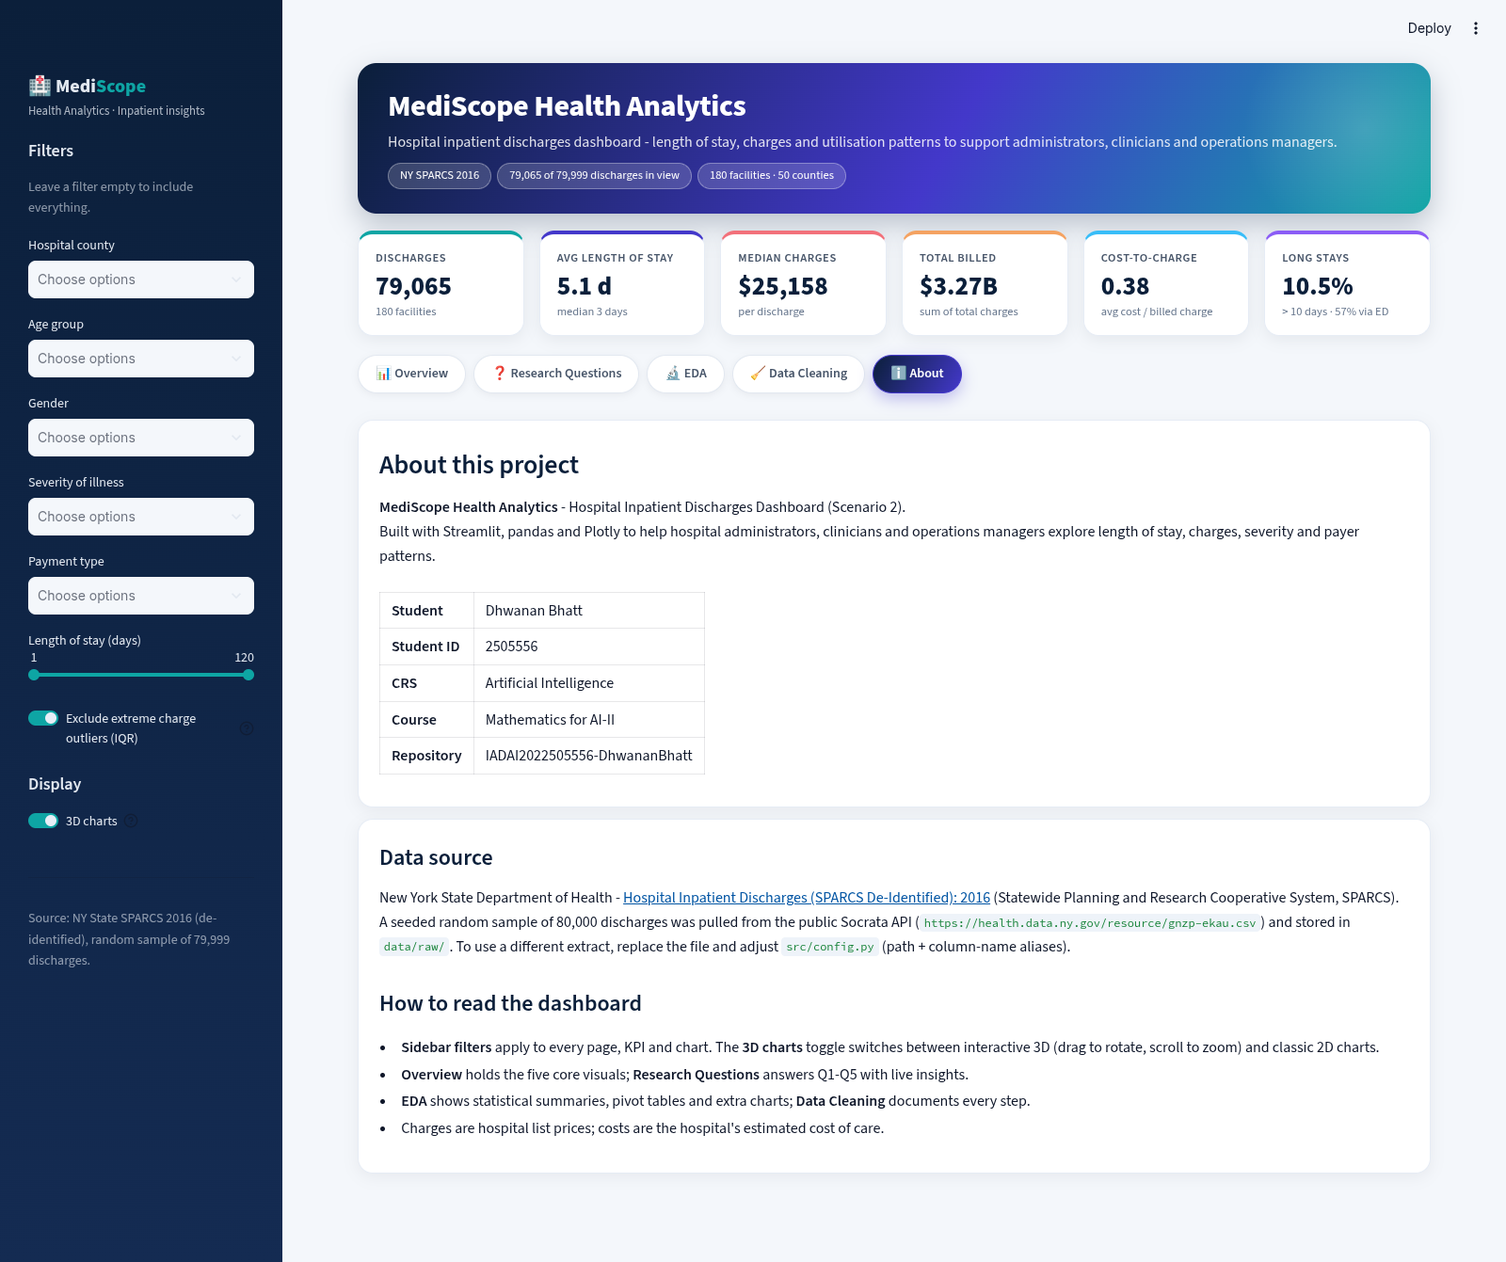
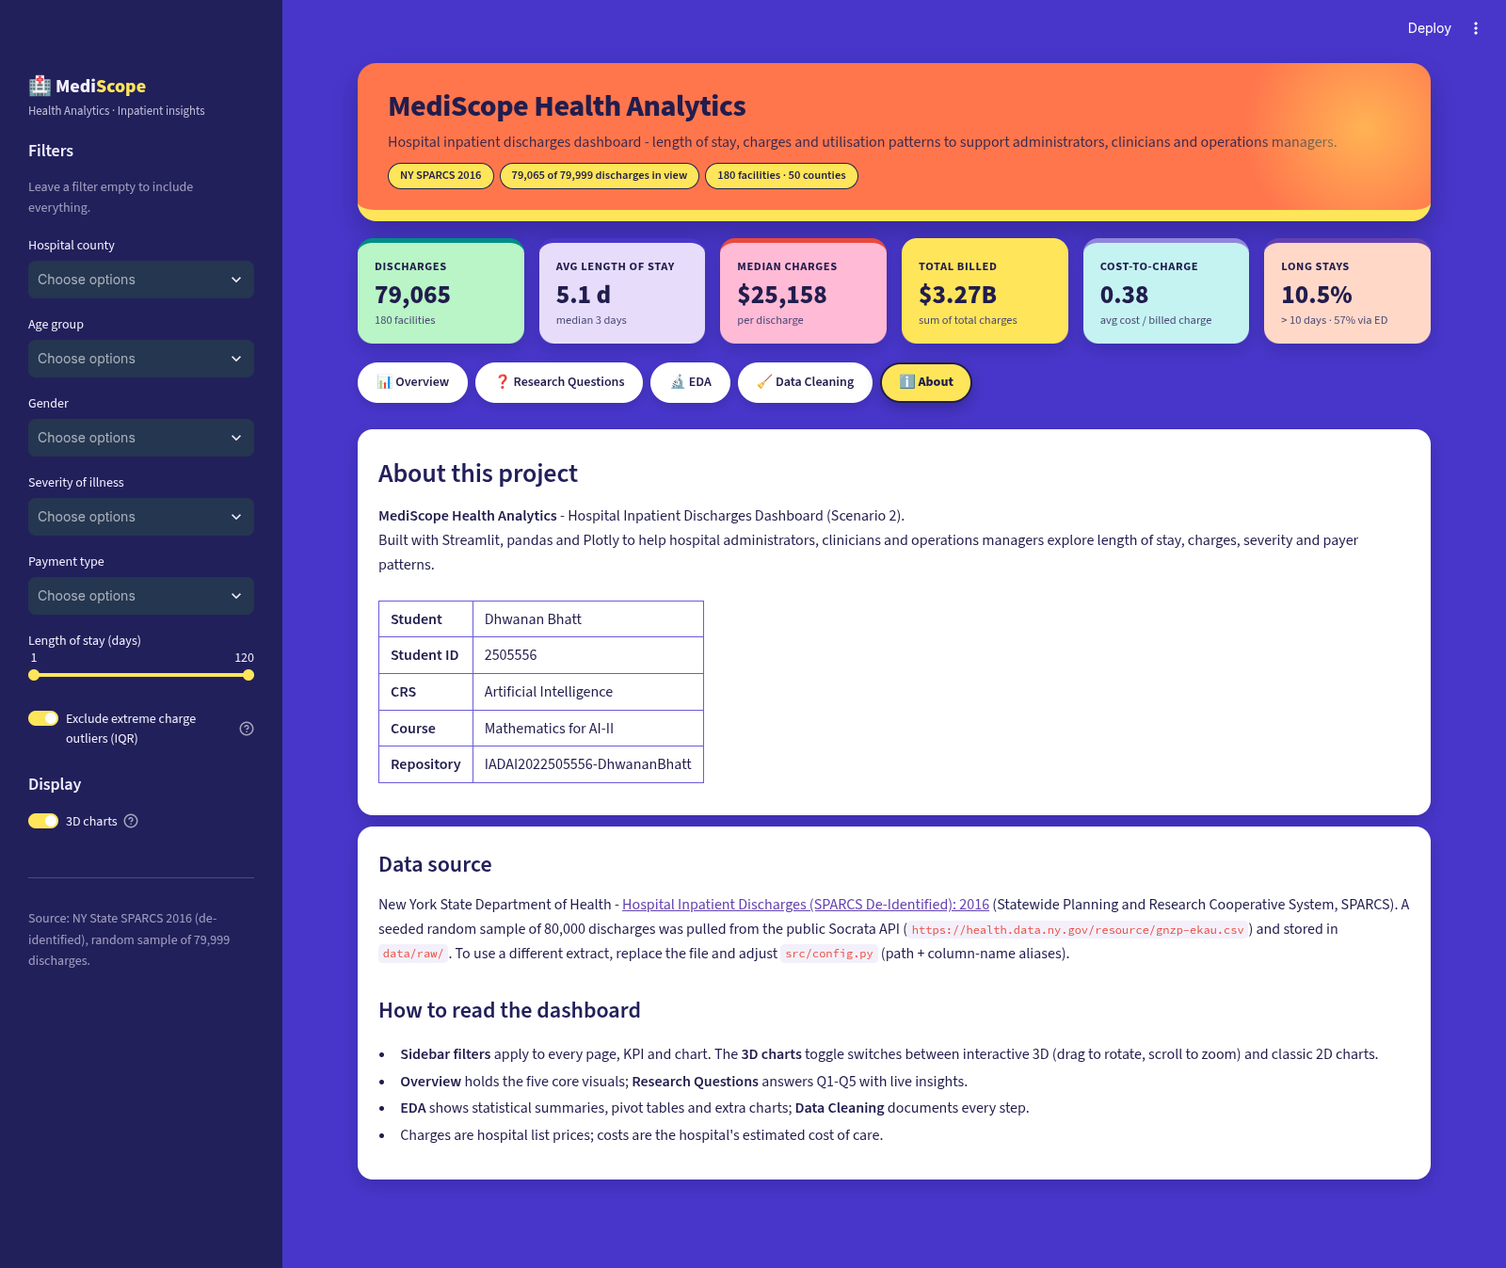
Restyle colour scheme (infographic palette)

diff --git a/src/styles.py b/src/styles.py
@@ -7,113 +7,131 @@ from . import config as cfg
 P = cfg.PALETTE
 
 # Light colormap for pandas Styler gradients (keeps dark table text readable)
-SOFT_CMAP = LinearSegmentedColormap.from_list("mediscope_soft", ["#F0FDFA", "#99F6E4", "#A5B4FC"])
+SOFT_CMAP = LinearSegmentedColormap.from_list("mediscope_soft", ["#FFF6D6", "#B9F5C6", "#D8C5F8"])
+PS = cfg.PASTELS
+# KPI accent colour -> pastel card fill (as in the reference infographic's cards)
+CARD_FILL = {P["teal"]: PS["mint"], P["indigo"]: PS["lavender"], P["coral"]: PS["pink"],
+             P["amber"]: PS["yellow"], P["sky"]: PS["cyan"], P["violet"]: PS["peach"]}
 
 CSS = f"""
 <style>
 @import url('https://fonts.googleapis.com/css2?family=Inter:wght@400;500;600;700;800&display=swap');
 html, body, [class*="css"], .stMarkdown, .stText {{ font-family: 'Inter', 'Segoe UI', sans-serif; }}
 .block-container {{ padding-top: 3.2rem; padding-bottom: 3rem; max-width: 1380px; }}
+.stApp {{ background: {P['bg']}; }}
+[data-testid="stCaptionContainer"], .stCaption {{ color: #E7DDFB !important; }}
+.block-container h1, .block-container h2, .block-container h3, .block-container h4 {{ color: #FFFFFF; }}
 
-/* ---------- header banner ---------- */
+/* ---------- header banner (orange poster header + yellow band) ---------- */
 .ms-hero {{
-  background: linear-gradient(120deg, {P['navy']} 0%, {P['indigo']} 55%, {P['teal']} 100%);
-  border-radius: 20px; padding: 26px 32px; color: #fff; margin-bottom: 18px;
-  box-shadow: 0 12px 30px rgba(11,31,58,.25); position: relative; overflow: hidden;
+  background: {P['orange']};
+  border-radius: 20px; padding: 26px 32px 22px 32px; color: {P['ink']}; margin-bottom: 18px;
+  border-bottom: 12px solid {P['amber']};
+  box-shadow: 0 12px 30px rgba(20,16,70,.35); position: relative; overflow: hidden;
 }}
 .ms-hero:after {{
   content: ""; position: absolute; right: -60px; top: -60px; width: 260px; height: 260px;
-  border-radius: 50%; background: radial-gradient(circle, rgba(255,255,255,.18), rgba(255,255,255,0) 70%);
+  border-radius: 50%; background: radial-gradient(circle, rgba(255,229,90,.55), rgba(255,229,90,0) 70%);
 }}
-.ms-hero h1 {{ color: #fff; font-size: 2.0rem; font-weight: 800; margin: 0; letter-spacing: -.5px; padding: 0; }}
-.ms-hero p {{ color: rgba(255,255,255,.85); margin: 6px 0 0 0; font-size: 1.0rem; }}
+.ms-hero h1 {{ color: {P['ink']}; font-size: 2.0rem; font-weight: 800; margin: 0; letter-spacing: -.5px; padding: 0; }}
+.ms-hero p {{ color: {P['ink']}; opacity: .88; margin: 6px 0 0 0; font-size: 1.0rem; }}
 .ms-badge {{
-  display: inline-block; background: rgba(255,255,255,.16); border: 1px solid rgba(255,255,255,.3);
-  color: #fff; border-radius: 999px; padding: 3px 12px; font-size: .78rem; margin: 10px 6px 0 0;
+  display: inline-block; background: {P['amber']}; border: 1px solid {P['ink']};
+  color: {P['ink']}; font-weight: 600; border-radius: 999px; padding: 3px 12px; font-size: .78rem; margin: 10px 6px 0 0;
 }}
 
-/* ---------- KPI cards ---------- */
+/* ---------- KPI cards (pastel fills) ---------- */
 .ms-kpi {{
-  background: {P['card']}; border-radius: 16px; padding: 16px 18px 14px 18px; height: 100%;
-  box-shadow: 0 4px 16px rgba(15,23,42,.07); border: 1px solid #E6ECF5;
-  border-top: 4px solid var(--accent); transition: transform .15s ease, box-shadow .15s ease;
+  background: var(--fill, {P['card']}); border-radius: 16px; padding: 16px 18px 14px 18px; height: 100%;
+  box-shadow: 0 6px 18px rgba(20,16,70,.25); border: none;
+  border-top: 5px solid var(--accent); transition: transform .15s ease, box-shadow .15s ease;
 }}
-.ms-kpi:hover {{ transform: translateY(-2px); box-shadow: 0 10px 24px rgba(15,23,42,.12); }}
-.ms-kpi .lbl {{ color: {P['slate']}; font-size: .78rem; font-weight: 600; text-transform: uppercase; letter-spacing: .6px; }}
-.ms-kpi .val {{ color: {P['navy']}; font-size: 1.7rem; font-weight: 800; margin-top: 4px; line-height: 1.15; }}
-.ms-kpi .sub {{ color: #64748B; font-size: .78rem; margin-top: 2px; }}
+.ms-kpi:hover {{ transform: translateY(-2px); box-shadow: 0 12px 26px rgba(20,16,70,.35); }}
+.ms-kpi .lbl {{ color: {P['ink']}; font-size: .78rem; font-weight: 700; text-transform: uppercase; letter-spacing: .6px; }}
+.ms-kpi .val {{ color: {P['ink']}; font-size: 1.7rem; font-weight: 800; margin-top: 4px; line-height: 1.15; }}
+.ms-kpi .sub {{ color: {P['slate']}; font-size: .78rem; margin-top: 2px; }}
 
 /* ---------- insight & section boxes ---------- */
 .ms-insight {{
-  background: linear-gradient(90deg, rgba(14,165,164,.10), rgba(67,56,202,.06));
-  border-left: 5px solid {P['teal']}; border-radius: 12px; padding: 14px 18px; margin: 6px 0 14px 0;
-  color: #0F172A; font-size: .97rem;
+  background: {cfg.PASTELS['cream']};
+  border-left: 6px solid {P['orange']}; border-radius: 12px; padding: 14px 18px; margin: 6px 0 14px 0;
+  color: {P['ink']}; font-size: .97rem;
 }}
-.ms-insight b, .ms-insight strong {{ color: {P['indigo']}; }}
-.ms-q {{ color: {P['navy']}; font-weight: 800; font-size: 1.25rem; margin: 6px 0 2px 0; }}
+.ms-insight b, .ms-insight strong {{ color: {P['violet']}; }}
+.ms-q {{ color: #FFFFFF; font-weight: 800; font-size: 1.25rem; margin: 6px 0 2px 0; }}
 .ms-qnum {{
-  display: inline-block; background: {P['coral']}; color: #fff; border-radius: 8px;
+  display: inline-block; background: {P['amber']}; color: {P['ink']}; border-radius: 8px;
   padding: 1px 9px; margin-right: 8px; font-size: .95rem;
 }}
 .ms-card {{
-  background: #fff; border-radius: 16px; padding: 18px 22px; border: 1px solid #E6ECF5;
-  box-shadow: 0 4px 16px rgba(15,23,42,.06); margin-bottom: 12px;
+  background: #fff; color: {P['ink']}; border-radius: 16px; padding: 18px 22px; border: none;
+  box-shadow: 0 6px 18px rgba(20,16,70,.25); margin-bottom: 12px;
 }}
+.ms-card td, .ms-card li, .ms-card b {{ color: {P['ink']}; }}
+.ms-card a {{ color: {P['violet']}; }}
+.ms-card code {{ color: {P['coral']}; background: #F3F0FB; }}
 
 /* ---------- containers around charts ---------- */
 div[data-testid="stPlotlyChart"] {{
-  background: #fff; border-radius: 16px; padding: 8px 10px; border: 1px solid #E6ECF5;
-  box-shadow: 0 4px 16px rgba(15,23,42,.05);
+  background: #fff; border-radius: 16px; padding: 8px 10px; border: none;
+  box-shadow: 0 6px 18px rgba(20,16,70,.22);
 }}
 
 /* ---------- tabs ---------- */
 .stTabs [data-baseweb="tab-list"] {{ gap: 6px; border-bottom: none; }}
 .stTabs [data-baseweb="tab"] {{
   background: #fff; border-radius: 12px 12px 0 0; padding: 10px 18px; font-weight: 600;
-  border: 1px solid #E6ECF5; border-bottom: none; color: {P['slate']};
+  border: none; color: {P['ink']};
 }}
-.stTabs [aria-selected="true"] {{ background: {P['navy']} !important; color: #fff !important; }}
-.stTabs [data-baseweb="tab-highlight"] {{ background: {P['coral']}; }}
+.stTabs [aria-selected="true"] {{ background: {P['amber']} !important; color: {P['ink']} !important; }}
+.stTabs [data-baseweb="tab-highlight"] {{ background: {P['orange']}; }}
 
 /* ---------- page navigation (radio styled as pills) ---------- */
 .block-container [data-testid="stRadioGroup"] {{ gap: 8px; flex-wrap: wrap; margin: 4px 0 12px 0; }}
 .block-container label[data-testid="stRadioOption"] {{
-  background: #fff; border: 1px solid #E2E8F0; border-radius: 999px; padding: 8px 18px;
-  box-shadow: 0 2px 8px rgba(15,23,42,.06); margin: 0 !important; cursor: pointer;
+  background: #fff; border: 2px solid transparent; border-radius: 999px; padding: 8px 18px;
+  box-shadow: 0 4px 12px rgba(20,16,70,.22); margin: 0 !important; cursor: pointer;
   transition: all .15s ease;
 }}
-.block-container label[data-testid="stRadioOption"]:hover {{ border-color: {P['teal']}; }}
+.block-container label[data-testid="stRadioOption"]:hover {{ border-color: {P['amber']}; }}
 .block-container label[data-testid="stRadioOption"][data-selected="true"] {{
-  background: linear-gradient(120deg, {P['navy']}, {P['indigo']}); border-color: {P['indigo']};
-  box-shadow: 0 6px 16px rgba(67,56,202,.30);
+  background: {P['amber']}; border-color: {P['ink']};
+  box-shadow: 0 6px 16px rgba(20,16,70,.35);
 }}
 .block-container label[data-testid="stRadioOption"] > div > div:not([data-testid="stMarkdownContainer"]) {{ display: none; }}
-.block-container label[data-testid="stRadioOption"] p {{ font-weight: 600; color: {P['slate']}; margin: 0; }}
-.block-container label[data-testid="stRadioOption"][data-selected="true"] p {{ color: #fff !important; }}
+.block-container label[data-testid="stRadioOption"] p {{ font-weight: 600; color: {P['ink']}; margin: 0; }}
+.block-container label[data-testid="stRadioOption"][data-selected="true"] p {{ color: {P['ink']} !important; font-weight: 800; }}
 
 /* ---------- click-filter chips ---------- */
-.st-key-xf_chips {{ background: #fff; border: 1px solid #E6ECF5; border-radius: 14px; padding: 8px 12px;
-  box-shadow: 0 4px 14px rgba(15,23,42,.06); margin-bottom: 10px; }}
-.st-key-xf_chips button[kind="secondary"] {{ border-radius: 999px; background: rgba(14,165,164,.10);
-  border: 1px solid {P['teal']}; color: {P['navy']}; font-weight: 600; }}
-.st-key-xf_chips button[kind="primary"] {{ border-radius: 999px; background: {P['coral']}; border-color: {P['coral']}; }}
-.ms-chip-label {{ font-weight: 700; color: {P['navy']}; padding-top: 8px; }}
-div[data-testid="stPopover"] button {{ border-radius: 999px; font-size: .85rem; }}
+.st-key-xf_chips {{ background: {cfg.PASTELS['lightgreen']}; border: none; border-radius: 14px; padding: 8px 12px;
+  box-shadow: 0 4px 14px rgba(20,16,70,.22); margin-bottom: 10px; }}
+.st-key-xf_chips button[kind="secondary"] {{ border-radius: 999px; background: {cfg.PASTELS['mint']};
+  border: 1px solid {P['teal']}; color: {P['ink']}; font-weight: 600; }}
+.st-key-xf_chips button[kind="secondary"] p {{ color: {P['ink']}; }}
+.st-key-xf_chips button[kind="primary"] {{ border-radius: 999px; background: {P['orange']}; border-color: {P['orange']}; }}
+.st-key-xf_chips button[kind="primary"] p {{ color: {P['ink']}; font-weight: 700; }}
+.ms-chip-label {{ font-weight: 700; color: {P['ink']}; padding-top: 8px; }}
+div[data-testid="stPopover"] button {{ border-radius: 999px; font-size: .85rem; background: {P['amber']};
+  color: {P['ink']}; border: none; font-weight: 600; }}
+div[data-testid="stPopover"] button p, div[data-testid="stPopover"] button svg {{ color: {P['ink']}; fill: {P['ink']}; }}
+
+/* ---------- buttons on the indigo canvas ---------- */
+.block-container [data-testid="stDownloadButton"] button {{ background: {P['amber']}; color: {P['ink']}; border: none; font-weight: 700; }}
+.block-container [data-testid="stDownloadButton"] button p {{ color: {P['ink']}; }}
+.block-container [data-testid="stExpander"] details {{ border-color: rgba(255,255,255,.35); }}
 
 /* ---------- sidebar ---------- */
-section[data-testid="stSidebar"] {{
-  background: linear-gradient(180deg, {P['navy']} 0%, #142B52 100%);
-}}
-section[data-testid="stSidebar"] * {{ color: #E2E8F0; }}
+section[data-testid="stSidebar"] {{ background: {P['navy']}; }}
+section[data-testid="stSidebar"] * {{ color: #F1EEFF; }}
 section[data-testid="stSidebar"] h1, section[data-testid="stSidebar"] h2,
-section[data-testid="stSidebar"] h3 {{ color: #fff; }}
+section[data-testid="stSidebar"] h3 {{ color: {P['amber']}; }}
 section[data-testid="stSidebar"] [data-baseweb="select"] > div,
-section[data-testid="stSidebar"] [data-baseweb="input"] > div {{ background: rgba(255,255,255,.08); border-color: rgba(255,255,255,.18); }}
-section[data-testid="stSidebar"] [data-baseweb="tag"] {{ background: {P['teal']} !important; }}
-section[data-testid="stSidebar"] [data-baseweb="tag"] * {{ color: #fff !important; }}
-section[data-testid="stSidebar"] [data-baseweb="popover"] * {{ color: #0F172A; }}
+section[data-testid="stSidebar"] [data-baseweb="input"] > div {{ background: #253650; border-color: rgba(255,255,255,.18); }}
+section[data-testid="stSidebar"] [data-baseweb="tag"] {{ background: {P['amber']} !important; }}
+section[data-testid="stSidebar"] [data-baseweb="tag"] * {{ color: {P['ink']} !important; }}
+section[data-testid="stSidebar"] [data-baseweb="popover"] * {{ color: {P['ink']}; }}
 .ms-side-brand {{ font-size: 1.25rem; font-weight: 800; color: #fff; }}
-.ms-side-brand span {{ color: {P['teal']}; }}
+.ms-side-brand span {{ color: {P['amber']}; }}
 
 /* dataframes */
 div[data-testid="stDataFrame"] {{ border-radius: 12px; overflow: hidden; }}
@@ -134,7 +152,8 @@ def hero(title: str, subtitle: str, badges: list[str]) -> None:
 
 
 def kpi_card(label: str, value: str, sub: str = "", accent: str = P["teal"]) -> str:
-    return (f'<div class="ms-kpi" style="--accent:{accent}"><div class="lbl">{label}</div>'
+    fill = CARD_FILL.get(accent, PS["lightgreen"])
+    return (f'<div class="ms-kpi" style="--accent:{accent};--fill:{fill}"><div class="lbl">{label}</div>'
             f'<div class="val">{value}</div><div class="sub">{sub}</div></div>')
 
 

diff --git a/src/config.py b/src/config.py
@@ -90,25 +90,38 @@ LOS_BUCKET_LABELS = ["1-2 days", "3-5 days", "6-10 days", "11-30 days", "31+ day
 # --------------------------------------------------------------------------- #
 # Visual identity
 # --------------------------------------------------------------------------- #
+# Palette sampled from the "flat poster" reference infographic: orange header,
+# yellow band, vivid indigo canvas, deep navy sidebar, pastel cards, teal marks.
 PALETTE = {
-    "navy": "#0B1F3A",
-    "indigo": "#4338CA",
-    "teal": "#0EA5A4",
-    "coral": "#F2707A",
-    "amber": "#F4A261",
-    "sky": "#38BDF8",
-    "violet": "#8B5CF6",
-    "slate": "#475569",
-    "bg": "#F4F7FB",
+    "navy": "#22205A",     # deep navy-indigo (sidebar, dark text)
+    "ink": "#211D4D",      # headline text on light / orange surfaces
+    "indigo": "#4836CB",   # vivid indigo canvas
+    "teal": "#008C87",
+    "coral": "#EA493C",    # red-orange bars
+    "orange": "#FF764D",   # header orange
+    "salmon": "#F39374",
+    "amber": "#FFE55A",    # bright yellow band / buttons
+    "sky": "#9185DA",      # soft purple
+    "violet": "#6441B0",
+    "pink": "#F14379",
+    "green": "#6CB760",
+    "slate": "#4A4775",    # muted label text
+    "bg": "#4836CB",
     "card": "#FFFFFF",
+    "footer": "#FFC9E0",
+}
+# Pastel card fills (KPI cards), from the infographic's cards
+PASTELS = {
+    "yellow": "#FFE55A", "mint": "#B9F5C6", "pink": "#FFBAD5", "lightgreen": "#E3F8CF",
+    "cream": "#FFE8A5", "lavender": "#E7DDFB", "peach": "#FFD8C8", "cyan": "#C5F3F2",
 }
 # Ordered discrete colour sequence for charts
-COLORWAY = ["#0EA5A4", "#4338CA", "#F2707A", "#F4A261", "#38BDF8",
-            "#8B5CF6", "#0B1F3A", "#22C55E", "#EC4899", "#94A3B8"]
-SEVERITY_COLORS = {"Minor": "#0EA5A4", "Moderate": "#38BDF8",
-                   "Major": "#F4A261", "Extreme": "#F2707A"}
-# Sequential scale for heatmaps: soft mint -> teal -> indigo -> navy
-SEQ_SCALE = ["#ECFDF5", "#99F6E4", "#2DD4BF", "#0EA5A4", "#4338CA", "#0B1F3A"]
+COLORWAY = ["#008C87", "#4836CB", "#EA493C", "#FF764D", "#9185DA",
+            "#F14379", "#22205A", "#6CB760", "#F39374", "#145633"]
+SEVERITY_COLORS = {"Minor": "#6CB760", "Moderate": "#008C87",
+                   "Major": "#FF764D", "Extreme": "#C13F2E"}
+# Sequential scale for heatmaps: the infographic's pale-lime -> forest-green ramp
+SEQ_SCALE = ["#E3F8CF", "#D2E9AD", "#A8D27D", "#6CB760", "#328347", "#145633"]
 
 STUDENT = {
     "name": "Dhwanan Bhatt",
@@ -133,7 +146,7 @@ HEAT_METRICS = {"length_of_stay": "Average stay (days)", "total_charges": "Avera
                 "charge_per_day": "Average charges per day ($)"}
 AGE_METRICS = {"avg_charges": "Average charges ($)", "median_charges": "Median charges ($)",
                "avg_costs": "Average cost ($)", "avg_los": "Average stay (days)"}
-GENDER_COLORS = {"Female": "#F2707A", "Male": "#4338CA", "Unknown": "#94A3B8"}
+GENDER_COLORS = {"Female": "#F14379", "Male": "#4836CB", "Unknown": "#9185DA"}
 
 
 def is_money(metric: str) -> bool:

diff --git a/src/charts.py b/src/charts.py
@@ -19,14 +19,14 @@ from .analysis import group_summary, ranked, top_facilities
 FONT = "Inter, 'Segoe UI', Roboto, Helvetica, Arial, sans-serif"
 pio.templates["mediscope"] = go.layout.Template(
     layout=go.Layout(
-        font=dict(family=FONT, size=13, color="#1E293B"),
+        font=dict(family=FONT, size=13, color="#211D4D"),
         title=dict(font=dict(size=17, color=cfg.PALETTE["navy"]), x=0.0, xanchor="left"),
         colorway=cfg.COLORWAY,
         paper_bgcolor="rgba(0,0,0,0)",
         plot_bgcolor="rgba(0,0,0,0)",
-        xaxis=dict(gridcolor="#E2E8F0", zerolinecolor="#CBD5E1", linecolor="#CBD5E1"),
-        yaxis=dict(gridcolor="#E2E8F0", zerolinecolor="#CBD5E1", linecolor="#CBD5E1"),
-        hoverlabel=dict(bgcolor="white", font=dict(family=FONT, color="#0F172A"),
+        xaxis=dict(gridcolor="#ECE6FB", zerolinecolor="#C9C1EA", linecolor="#C9C1EA"),
+        yaxis=dict(gridcolor="#ECE6FB", zerolinecolor="#C9C1EA", linecolor="#C9C1EA"),
+        hoverlabel=dict(bgcolor="white", font=dict(family=FONT, color="#211D4D"),
                         bordercolor=cfg.PALETTE["teal"]),
         legend=dict(bgcolor="rgba(0,0,0,0)", title=dict(font=dict(size=12))),
         margin=dict(l=10, r=10, t=56, b=10),
@@ -37,7 +37,7 @@ pio.templates.default = "plotly_white+mediscope"
 
 def _empty(msg="No data for the current filters") -> go.Figure:
     fig = go.Figure()
-    fig.add_annotation(text=msg, showarrow=False, font=dict(size=15, color="#64748B"))
+    fig.add_annotation(text=msg, showarrow=False, font=dict(size=15, color="#4A4775"))
     fig.update_layout(xaxis_visible=False, yaxis_visible=False, height=320)
     return fig
 
@@ -392,7 +392,7 @@ def animated_age_charges(df, metric: str = "avg_charges") -> go.Figure:
     fig.update_layout(height=480, legend=dict(orientation="h", y=1.02, x=1, xanchor="right", title=None))
     # theme the play controls and slow the transition slightly
     if fig.layout.updatemenus:
-        fig.layout.updatemenus[0].update(bgcolor="white", bordercolor=cfg.PALETTE["teal"],
+        fig.layout.updatemenus[0].update(bgcolor="#FFE8A5", bordercolor=cfg.PALETTE["navy"],
                                          font=dict(color=cfg.PALETTE["navy"]))
         fig.layout.updatemenus[0].buttons[0].args[1]["frame"]["duration"] = 1100
         fig.layout.updatemenus[0].buttons[0].args[1]["transition"]["duration"] = 500

diff --git a/src/charts3d.py b/src/charts3d.py
@@ -84,9 +84,9 @@ def _bars3d(x, y, z, *, color=None, intensity=None, colorscale=None, hover=None,
 
 def _axis(title, tickvals=None, ticktext=None, **kw):
     ax = dict(title=dict(text=title, font=dict(size=12, color=P["navy"])),
-              backgroundcolor="rgba(232,238,247,0.55)", gridcolor="#CBD5E1",
-              showbackground=True, zerolinecolor="#94A3B8",
-              tickfont=dict(size=10, color="#334155"))
+              backgroundcolor="rgba(231,221,251,0.55)", gridcolor="#C9C1EA",
+              showbackground=True, zerolinecolor="#9185DA",
+              tickfont=dict(size=10, color="#211D4D"))
     if tickvals is not None:
         ax.update(tickvals=list(tickvals), ticktext=list(ticktext), tickmode="array")
     ax.update(kw)
@@ -102,7 +102,7 @@ def camera_buttons(default_eye, y=1.0, x=0.0):
                ("Top", cam((0.0, -0.01, 2.5), up=(0, 1, 0))), ("Side", cam((2.4, 0.0, 0.12))),
                ("⟲ Reset", cam(default_eye))]
     return [dict(type="buttons", direction="right", showactive=True, x=x, xanchor="left", y=y, yanchor="bottom",
-                 pad=dict(r=2, t=2, b=2, l=2), bgcolor="white", bordercolor="#CBD5E1", borderwidth=1,
+                 pad=dict(r=2, t=2, b=2, l=2), bgcolor="#FFE8A5", bordercolor="#22205A", borderwidth=1,
                  font=dict(size=11, color=P["navy"]),
                  buttons=[dict(label=lbl, method="relayout", args=[args]) for lbl, args in presets])]
 
@@ -288,7 +288,7 @@ def donut_payment_type(df, by: str = "payment_type", value: str = "patients") ->
             rm = (r_in + r_out) / 2
             fig.add_scatter3d(x=[rm * np.cos(mid)], y=[rm * np.sin(mid)], z=[h + 0.06], mode="text",
                               text=[f"<b>{frac:.0%}</b>"], showlegend=False, hoverinfo="skip",
-                              textfont=dict(size=13, color="#0F172A"))
+                              textfont=dict(size=13, color="#211D4D"))
         a0 = a1
     centre = f"{s.sum():,}<br>patients" if value == "patients" else f"${s.sum()/1e9:,.2f}B<br>billed"
     fig.add_scatter3d(x=[0], y=[0], z=[0.1], mode="text", text=[f"<b>{centre}</b>"],

diff --git a/app.py b/app.py
@@ -205,12 +205,33 @@ def style_pivot(piv, fmt):
         out = []
         for v in vals[col.name]:
             if pd.isna(v):
-                out.append("background-color: #F1F5F9; color: #94A3B8")
+                out.append("background-color: #F3F0FB; color: #8A86B0")
             else:
-                out.append(f"background-color: {mcolors.to_hex(ui.SOFT_CMAP((v - lo) / span))}; color: #0F172A")
+                out.append(f"background-color: {mcolors.to_hex(ui.SOFT_CMAP((v - lo) / span))}; color: #211D4D")
         return out
 
     return text.style.apply(colour, axis=0)
+
+
+def _chart_colours(fig):
+    """Pin chart text/background colours explicitly so the dark theme of the indigo page
+    does not leak into the white chart cards."""
+    ink, grid, line = cfg.PALETTE["ink"], "#ECE6FB", "#C9C1EA"
+    fig.update_layout(font=dict(family=charts2d.FONT, color=ink), paper_bgcolor="rgba(0,0,0,0)",
+                      plot_bgcolor="rgba(0,0,0,0)", legend_font_color=ink, title_font_color=cfg.PALETTE["navy"])
+    ax = dict(gridcolor=grid, zerolinecolor=line, linecolor=line, color=ink, tickfont_color=ink, title_font_color=ink)
+    fig.update_xaxes(**ax)
+    fig.update_yaxes(**ax)
+    fig.update_coloraxes(colorbar_tickfont_color=ink, colorbar_title_font_color=ink)
+    for tr in fig.data:
+        if "colorbar" in tr:
+            tr.colorbar.tickfont.color = ink
+            tr.colorbar.title.font.color = ink
+        elif "marker" in tr and "colorbar" in tr.marker and tr.marker.showscale:
+            tr.marker.colorbar.tickfont.color = ink
+            tr.marker.colorbar.title.font.color = ink
+    if fig.layout.sliders:
+        fig.layout.sliders[0].font.color = ink
 
 
 def plot(fig, key=None, select=None):
@@ -221,6 +242,7 @@ def plot(fig, key=None, select=None):
     emit selection events in Streamlit).
     """
     key = key or f"chart_{next(_chart_ids)}"
+    _chart_colours(fig)
     if select and not use_3d:
         st.session_state["_xf_keys"].setdefault(select, set()).add(key)
         st.plotly_chart(fig, width="stretch", config=PLOT_CFG_2D, key=key,
